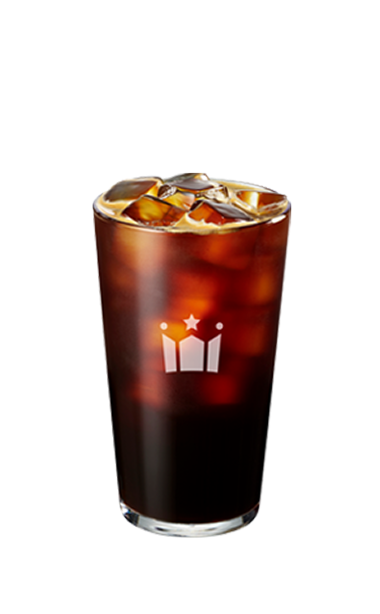
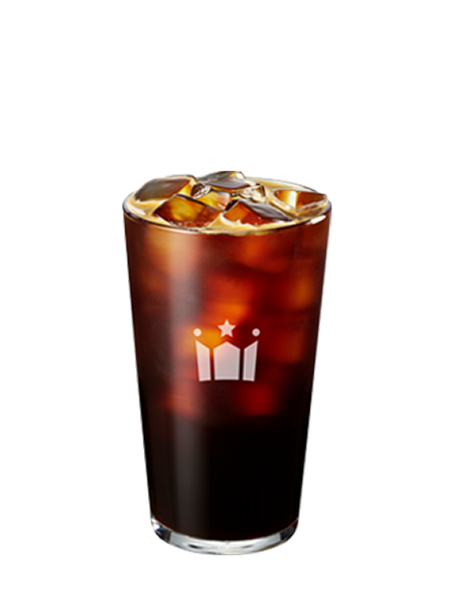
.info_card img 사이즈 변경

Changed region(s): [[0.2316, 0.2785, 0.7816, 0.9283], [0.5789, 0.4332, 0.6079, 0.4642], [0.4921, 0.4332, 0.5211, 0.4642]]

diff --git a/css/memu.css b/css/memu.css
@@ -493,7 +493,7 @@ section .memu_con .menu_list li .txt_box .price span:not(:last-child) {
 }
 
 .info_card .info_left {
-  width: 380px;
+  width: 450px;
   max-width: 40vw;
   overflow: hidden;
   border-radius: 16px 0 0 16px;
@@ -508,7 +508,7 @@ section .memu_con .menu_list li .txt_box .price span:not(:last-child) {
 }
 
 .info_card .info_right {
-  width: 560px;
+  width: 540px;
   max-width: 52vw;
   padding: 50px 40px;
   max-height: 78vh;
